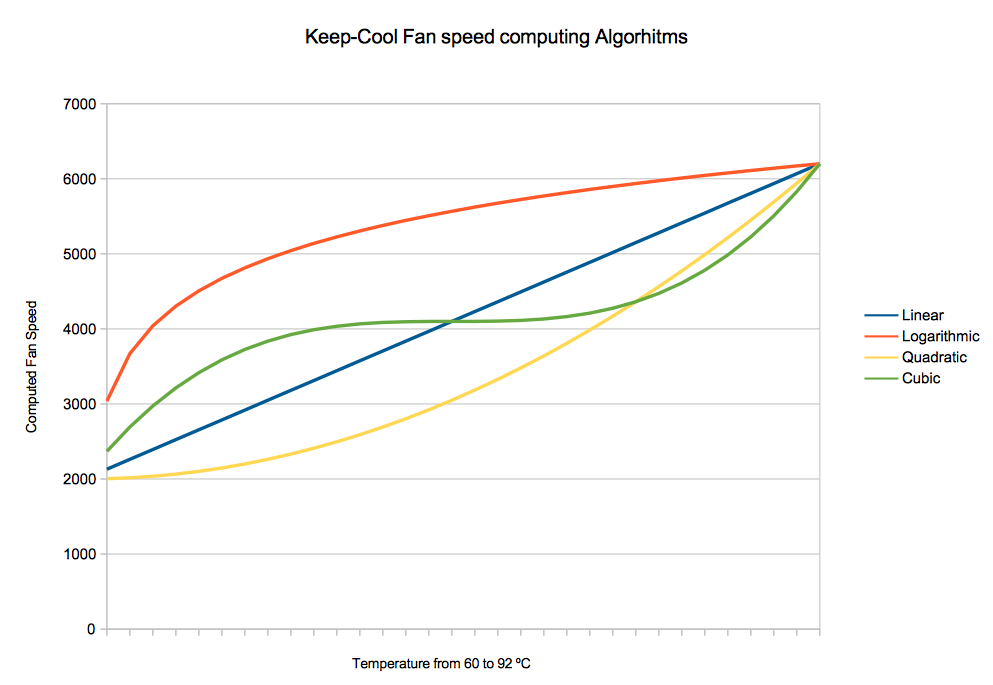
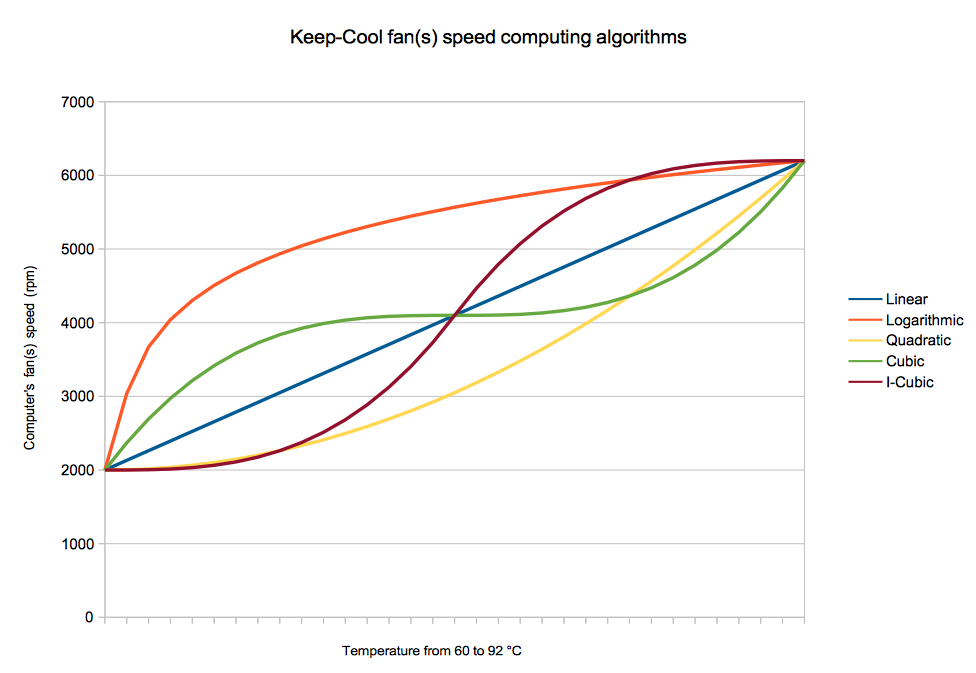
Introduced the inverse-cubic speed computing algorithm

diff --git a/keep-cool.c b/keep-cool.c
@@ -575,6 +575,12 @@ void usage(char* prog)
     printf("                      for mid-range temperatures and fastly for high \n");
     printf("                      temperatures, this is a _Balanced compromise between\n");
     printf("                      the quiet and conservative approaches\n");
+    printf("      i    -> i-cubic: speed increments slowly for lower temperatures, quickly\n");
+    printf("                      for mid-range temperatures and slowly for high \n");
+    printf("                      temperatures. This can be seen as an Inverse-Balanced\n");
+    printf("                      approach, cause it's still a compromise between the\n");
+    printf("                      quiet and conservative approaches, though it tends to\n");
+    printf("                      be more quiet, especially for low temperatures.\n");
     printf("  -d         : enable debug mode, dump internal state and values\n");
     printf("  -f         : run forever (runs as daemon)\n");
     printf("  -g         : generates in the current directory the plist file required to\n");
@@ -717,9 +723,8 @@ UInt16 KCLinearSpeedAlghoritm(void *structure) {
     } else if (curTemp > maxTemp) {
 	newSpeed = KC_FAN_MAX_SPEED;
     } else {
-	double delta_v = (double)KC_FAN_MAX_SPEED-(double)KC_FAN_MIN_SPEED;
 	double delta_t = maxTemp-minTemp;
-	double increment = (curTemp-minTemp)*(delta_v/delta_t);
+	double increment = (curTemp-minTemp)*(state->delta_v/delta_t);
 	newSpeed = (UInt16)(KC_FAN_MIN_SPEED + (UInt32)increment);
     } 
     return newSpeed;
@@ -737,9 +742,8 @@ UInt16 KCLogarithmicSpeedAlghoritm(void *structure) {
     } else if (curTemp > maxTemp) {
 	newSpeed = KC_FAN_MAX_SPEED;
     } else {
-	double delta_v = (double)KC_FAN_MAX_SPEED-(double)KC_FAN_MIN_SPEED;
 	double delta_t = maxTemp-minTemp;
-	double increment = (delta_v/2.0)*(2.0+log10((curTemp-minTemp)/delta_t));
+	double increment = (state->delta_v/2.0)*(2.0+log10((curTemp-minTemp)/delta_t));
 	newSpeed = (UInt16)(KC_FAN_MIN_SPEED + (UInt32)increment);
     } 
     return newSpeed;
@@ -757,9 +761,8 @@ UInt16 KCQuadraticSpeedAlghoritm(void *structure) {
     } else if (curTemp > maxTemp) {
 	newSpeed = KC_FAN_MAX_SPEED;
     } else {
-	double delta_v = sqrt((double)KC_FAN_MAX_SPEED-(double)KC_FAN_MIN_SPEED);
 	double delta_t = maxTemp-minTemp;
-	double increment = pow((curTemp-minTemp)*(delta_v/delta_t),2);
+	double increment = pow((curTemp-minTemp)*(sqrt(state->delta_v)/delta_t),2);
 	newSpeed = (UInt16)(KC_FAN_MIN_SPEED + (UInt32)increment);
     } 
     return newSpeed;
@@ -777,11 +780,36 @@ UInt16 KCCubicSpeedAlghoritm(void *structure) {
     } else if (curTemp > maxTemp) {
 	newSpeed = KC_FAN_MAX_SPEED;
     } else {
-	double delta_v = ((double)KC_FAN_MAX_SPEED-(double)KC_FAN_MIN_SPEED);
 	double delta_t = maxTemp-minTemp;
-	double increment = (delta_v/2.0)*(1.0+pow(((2.0*(curTemp-minTemp))/delta_t)-1.0,3));
+	double increment = (state->delta_v/2.0)*(1.0+pow(((2.0*(curTemp-minTemp))/delta_t)-1.0,3));
 	newSpeed = (UInt16)(KC_FAN_MIN_SPEED + (UInt32)increment);
     } 
+    return newSpeed;
+}
+
+UInt16 KCInverseCubicSpeedAlghoritm(void *structure) {
+    KC_Status_t	*state = (KC_Status_t *)structure;
+    double curTemp = state->cur_temp;
+    double minTemp = (double)state->min_temp;
+    double maxTemp = (double)state->max_temp;
+    UInt16 newSpeed = KC_SMC_DEF_SPEED;
+
+    if (curTemp <= minTemp ) {
+	newSpeed = KC_SMC_DEF_SPEED;
+    } else if (curTemp > maxTemp) {
+	newSpeed = KC_FAN_MAX_SPEED;
+    } else { 
+        double delta_t = maxTemp-minTemp;
+        double half_t = delta_t/2.0;
+	double temp_idx = curTemp-minTemp;
+        if (temp_idx <= half_t) {
+	    double increment = (state->delta_v/2.0)*(pow(((2.0*temp_idx)/delta_t),3));
+	    newSpeed = (UInt16)(KC_FAN_MIN_SPEED + (UInt32)increment);
+        } else {
+	    double increment = (state->delta_v/2.0)*(2.0+pow(((2.0*temp_idx)/delta_t)-2.0,3));
+	    newSpeed = (UInt16)(KC_FAN_MIN_SPEED + (UInt32)increment);
+	}
+    }
     return newSpeed;
 }
 
@@ -810,6 +838,11 @@ void KCSelectAlgothitm(char alg, KC_Status_t *state) {
 	    state->compute_fan_speed=&KCCubicSpeedAlghoritm;
 	    if (state->debug)
 		printf("Selected Speed Computing Algorithm: cubic (Balanced)\n");
+            break;
+        case 'i':
+	    state->compute_fan_speed=&KCInverseCubicSpeedAlghoritm;
+	    if (state->debug)
+		printf("Selected Speed Computing Algorithm: cosine (I-Balanced)\n");
             break;
         case 'r':
 	    state->compute_fan_speed=&KCResetSpeedAlghoritm;
@@ -841,7 +874,7 @@ void KCSigHandler(int sigNum) {
        printf("Received Signal %d\n",sigNum);
     switch (sigNum) {
         case SIGUSR1:
-	    KCSelectAlgothitm('c', gbl_state);
+	    KCSelectAlgothitm('i', gbl_state);
             break;
         case SIGUSR2:
 	    KCSelectAlgothitm('b', gbl_state);
@@ -893,7 +926,10 @@ kern_return_t KCDumpOptions(FILE *fp, KC_Status_t *state) {
 	} else if (state->compute_fan_speed == &KCCubicSpeedAlghoritm) {
 		fprintf(fp,"%s-a%s",KC_PLIST_PRE_ARGUMENT,KC_PLIST_POST_ARGUMENT);
 		fprintf(fp,"%sb%s",KC_PLIST_PRE_ARGUMENT,KC_PLIST_POST_ARGUMENT);
-	} 
+	} else if (state->compute_fan_speed == &KCInverseCubicSpeedAlghoritm) {
+                fprintf(fp,"%s-a%s",KC_PLIST_PRE_ARGUMENT,KC_PLIST_POST_ARGUMENT);
+                fprintf(fp,"%si%s",KC_PLIST_PRE_ARGUMENT,KC_PLIST_POST_ARGUMENT);
+        }
 	return retVal;
 }
 
@@ -925,6 +961,7 @@ int main(int argc, char *argv[])
        			     KC_DEF_MIN_TEMP, 
 			     KC_DEF_MAX_TEMP, 
 			     KC_DEF_MIN_TEMP/2.0, 
+			     (double)(KC_FAN_MAX_SPEED-KC_FAN_MIN_SPEED),
 			     0,
                              { {KC_SMC_DEF_SPEED,0}, 
 			       {KC_SMC_DEF_SPEED,0}, 
@@ -999,7 +1036,6 @@ int main(int argc, char *argv[])
     }
     
     smc_init();
-    
     switch(op)
     {
         case OP_LIST:

diff --git a/keep-cool.h b/keep-cool.h
@@ -23,7 +23,7 @@
 #define __SMC_H__
 #endif
 
-#define VERSION               "0.01"
+#define VERSION               "0.02"
 
 #define OP_NONE               0
 #define OP_LIST               1
@@ -146,6 +146,7 @@ typedef struct {
   UInt32                  min_temp;
   UInt32                  max_temp;
   double		  cur_temp;
+  double                  delta_v;
   UInt32		  num_fans;
   KC_FanState_t		  fan[KC_MAX_FANS];
   char			  debug;
@@ -179,4 +180,5 @@ UInt16 KCLinearSpeedAlghoritm(void *);
 UInt16 KCLogarithmicSpeedAlghoritm(void *);
 UInt16 KCQuadraticSpeedAlghoritm(void *);
 UInt16 KCCubicSpeedAlghoritm(void *);
+UInt16 KCInverseCubicSpeedAlghoritm(void *);
 UInt16 KCResetSpeedAlghoritm(void *);
